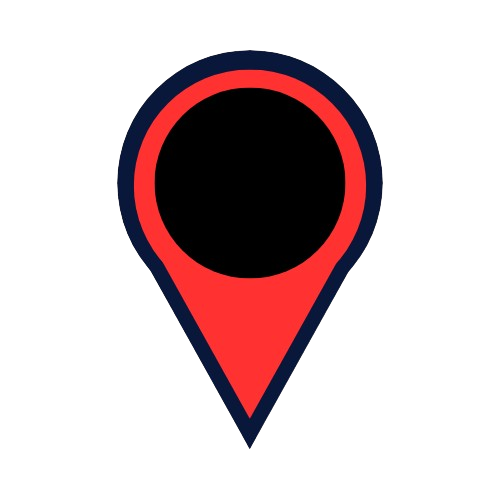
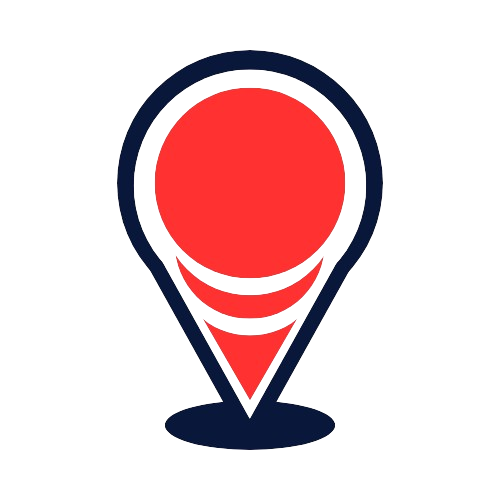
background and player images changed and request animation frams is added

Changed region(s): [[0.24, 0.12, 0.75, 0.9]]

diff --git a/index.js b/index.js
@@ -22,7 +22,7 @@ class Game{
         this.playerList = {}
         this.winner = 2
         this.img = new Image()
-        this.img.src = 'Final board2.png'
+        this.img.src = 'Final board3.png'
 
         this.playersPosition = {
             '1':{
@@ -73,6 +73,8 @@ class Game{
             ctx.drawImage(this.img, 0, 0, canvas.width, canvas.height); // Draw image to fit the canvas
 
             this.createPlayer()
+
+            this.animationLoop()
         };
 
 
@@ -81,30 +83,25 @@ class Game{
             document.querySelector('#killed').innerText = ``
         })
 
-        // window.addEventListener("beforeunload", (event) => {
-        //     if (!confirm("Are you sure you want to leave?")) {
-        //         event.preventDefault();
-        //     }
-        // });
-        
-        
+        window.addEventListener("beforeunload", (event) => {
+            if (!confirm("Are you sure you want to leave?")) {
+                event.preventDefault();
+            }
+        });
 
-        // window.addEventListener('resize',()=>{
-        //     this.canvasDims = document.querySelector('.middle').offsetHeight < document.querySelector('.middle').offsetWidth ? document.querySelector('.middle').offsetHeight : document.querySelector('.middle').offsetWidth
+    }
 
-        //     this.canvas.height = this.canvasDims
-        //     this.canvas.width = this.canvasDims
+    animationLoop = ()=>{
 
-        //     this.ctx.clearRect(0, 0, this.canvas.width, this.canvas.height); // Clear canvas
+        this.ctx.clearRect(0, 0, this.canvas.width, this.canvas.height); 
+        // Clear canvas
+        this.updateGame();
 
-        //     for(let i=1;i<=this.numberOfPlayers;i++){
-        //         this.playerList[`${i}`].tileDim = this.canvasDims
-        //         this.playerList[`${i}`].draw()
-        //     }
 
-           
-        //     this.updateGame();
-        // })
+        requestAnimationFrame(this.animationLoop)
+
+
+
     }
 
     createPlayer(){
@@ -163,6 +160,9 @@ class Game{
             this.playerList[`${this.turn}`].CheckCurrentX = this.playerList[`${this.turn}`].currentX
             this.playerList[`${this.turn}`].CheckCurrentY = this.playerList[`${this.turn}`].currentY
             this.playerList[`${this.turn}`].checkMoveTo = this.playerList[`${this.turn}`].moveTo
+
+
+            document.querySelector('#dice').innerHTML = `${diceImage[this.dice]}`
 
             console.log('you need',isEligibleToMove.need,'to move')
 
@@ -596,19 +596,8 @@ class CreateBlocks{
     }
 
     draw(){
-        
-        if(this.pos===1){
-
-            this.ctx.fillStyle = 'blue'
-            this.ctx.fillRect(this.x*this.dimension,this.y*this.dimension,this.dimension,this.dimension)
-        }else if(this.pos===2){
-            this.ctx.fillStyle = 'green'
-            this.ctx.fillRect(this.x*this.dimension,this.y*this.dimension,this.dimension,this.dimension)
-        }else{
-            this.ctx.fillStyle = 'red'
-            this.ctx.fillRect(this.x*this.dimension,this.y*this.dimension,this.dimension,this.dimension)
-        }
-
+        this.ctx.fillStyle = 'white'
+        this.ctx.fillRect(this.x*this.dimension,this.y*this.dimension,this.dimension,this.dimension)
 
     }
 
@@ -639,43 +628,75 @@ class Player{
         this.winningPositionX = winningPositionX
         this.winningPositionY = winningPositionY
         this.sharing = false
-        this.centerPositionX = 4.5
-        this.centerPositionY = 5
+        this.centerPositionX = 6.5
+        this.centerPositionY = 6
         this.tileDim = this.canvas.height / 5;
         this.playerPosX = this.tileDim / this.centerPositionX;
         this.playerPosY = this.tileDim / this.centerPositionY;
         this.playerWonTheGame = false
+        this.base = new Image()
+        this.base.src = `/players/baseImage.png`
         this.img = new Image()
         this.img.src = `/players/${this.color}.png`
         this.imgLoad = false
+        this.baseImgLoad = false
+       
     }
+
+    
 
 
     draw(){
 
+        
+
         // this.ctx.fillStyle = this.color
         // this.ctx.fillRect(this.currentX*this.tileDim+this.playerPosX,this.currentY*this.tileDim+this.playerPosY,this.tileDim/5 ,this.tileDim/5)
 
+        this.base.onload = () => {
+            this.baseImgLoad = true
+
+            this.ctx.drawImage(
+                this.base, 
+                this.currentX * this.tileDim + this.playerPosX, 
+                this.currentY * this.tileDim + this.playerPosY, 
+                this.tileDim/1.4, 
+                this.tileDim/1.4
+            );
+        };
+
+
         this.img.onload = () => {
+
             this.imgLoad=true
 
             this.ctx.drawImage(
                 this.img, 
                 this.currentX * this.tileDim + this.playerPosX, 
                 this.currentY * this.tileDim + this.playerPosY, 
-                this.tileDim/1.8, 
-                this.tileDim/1.8
+                this.tileDim/1.4, 
+                this.tileDim/1.4
             );
         };
 
+
+        if(this.baseImgLoad){
+            this.ctx.drawImage(
+                this.base, 
+                this.currentX * this.tileDim + this.playerPosX, 
+                this.currentY * this.tileDim + this.playerPosY, 
+                this.tileDim/1.4, 
+                this.tileDim/1.4
+            );
+        };
 
         if(this.imgLoad){
             this.ctx.drawImage(
                 this.img, 
                 this.currentX * this.tileDim + this.playerPosX, 
                 this.currentY * this.tileDim + this.playerPosY, 
-                this.tileDim/1.8, 
-                this.tileDim/1.8
+                this.tileDim/1.4, 
+                this.tileDim/1.4
             );
         };
 

diff --git a/style.css b/style.css
@@ -170,6 +170,12 @@ canvas{
     display: none;
 }
 
+.images{
+    background-color: white !important;
+    border: 4px solid blue;
+    height: 100vh;
+}
+
 .overLap{
     position: absolute;
     top: 50%;
